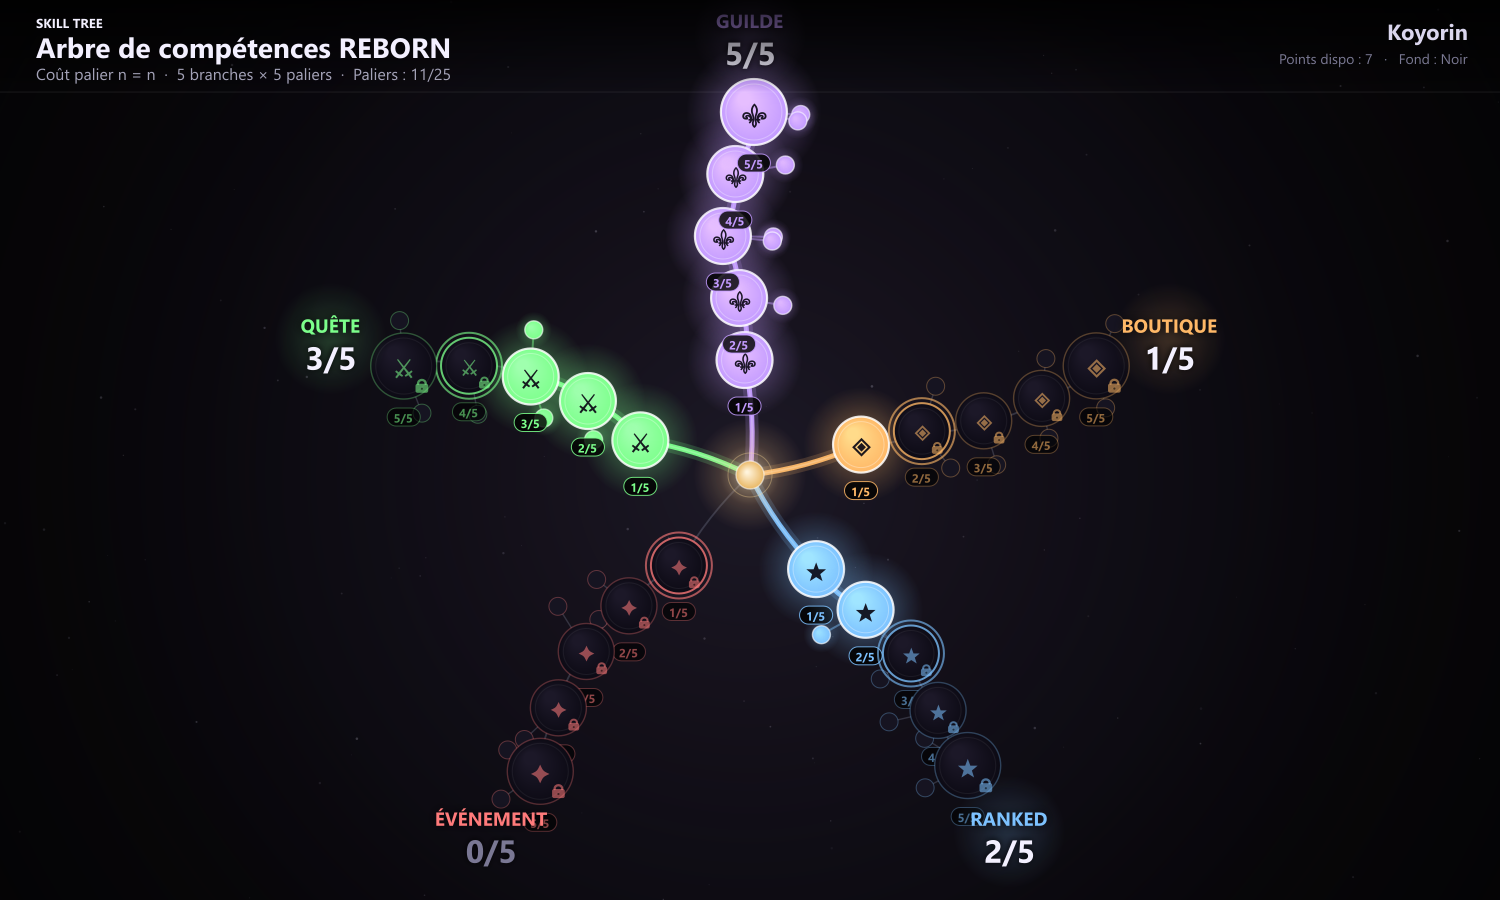
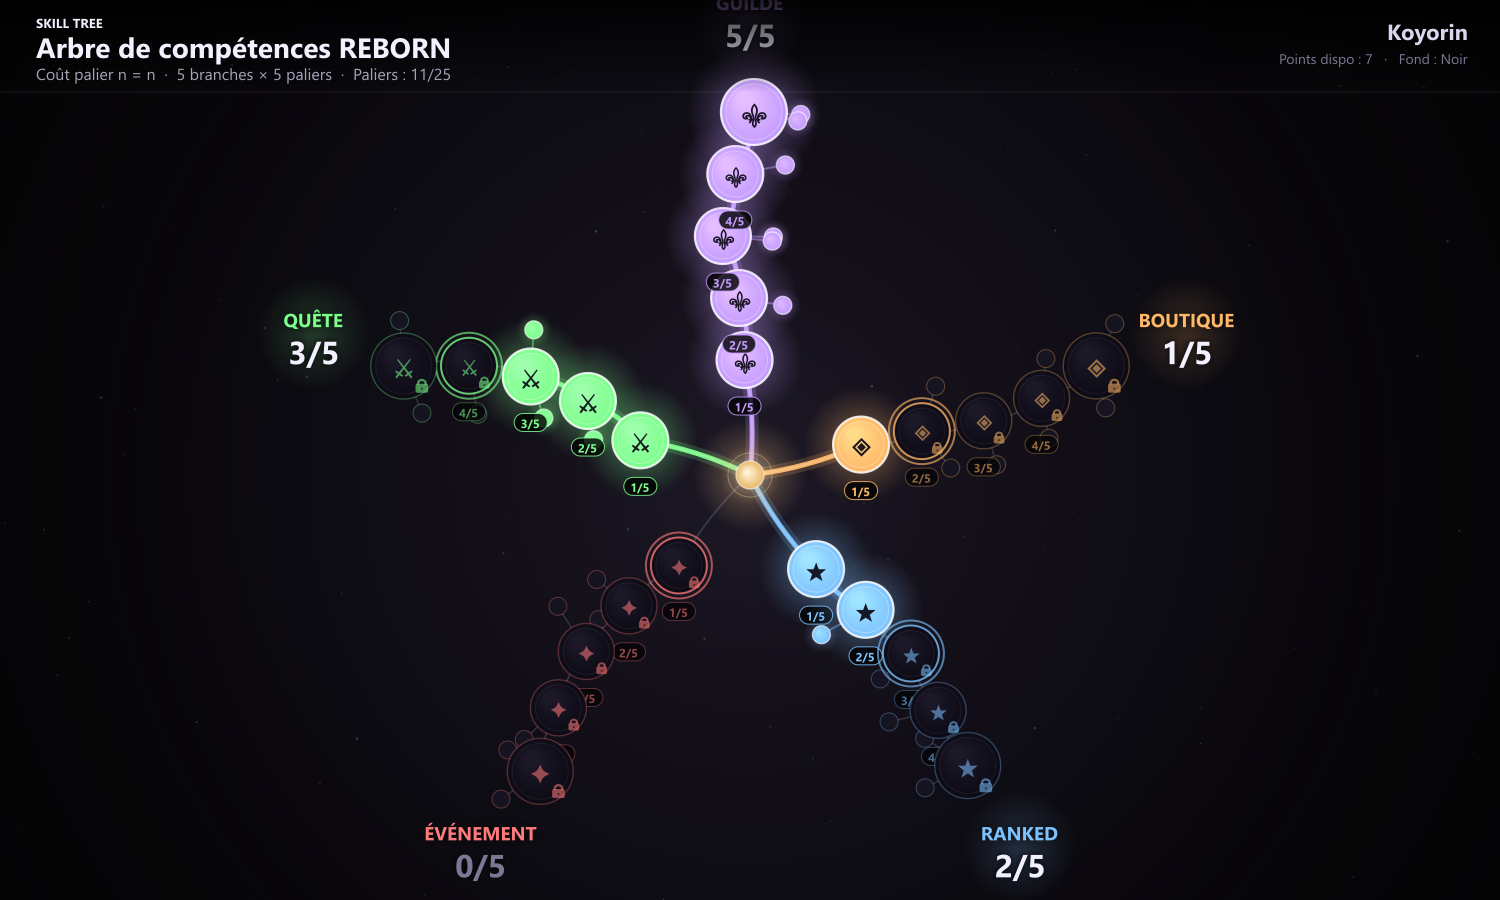
sync(cursor): 2026-04-27 08:44:30

diff --git a/niveau/src/utils/canvas-skill-tree-reborn.js b/niveau/src/utils/canvas-skill-tree-reborn.js
@@ -5,7 +5,7 @@ const fs = require('node:fs');
 /* ---------- arbre de compétences (style ARC Raiders) ---------- */
 
 const W = 1500;
-const H = 900;
+const H = 980;
 const ASSETS = path.join(__dirname, '..', 'assets');
 
 /**
